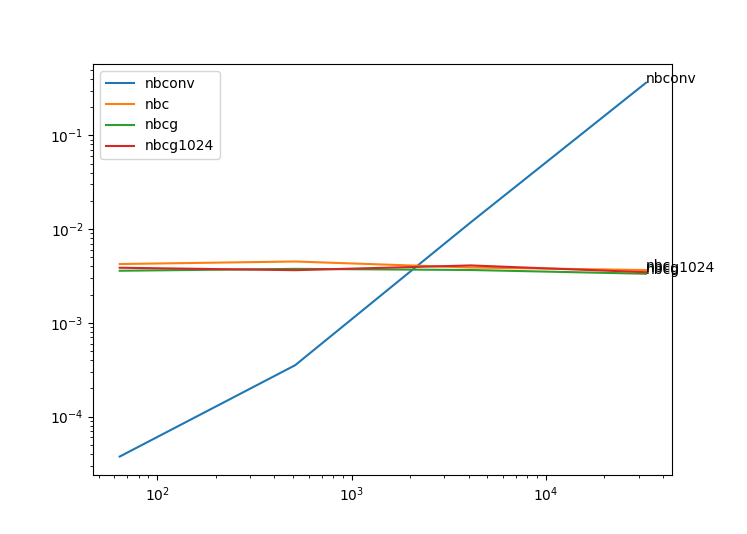
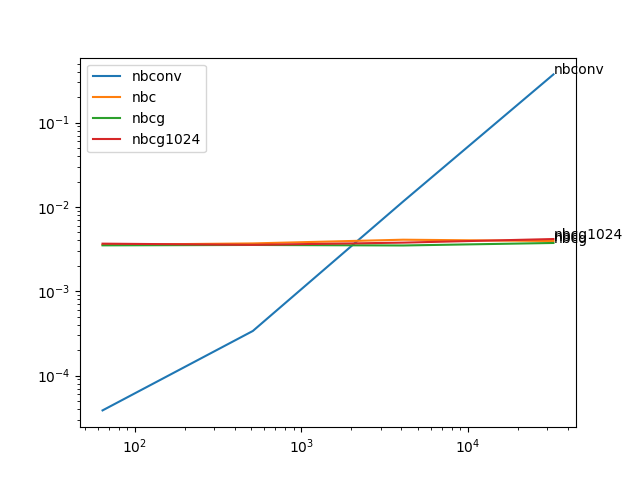
added 3d 1st order

diff --git a/test_3d_1o.py b/test_3d_1o.py
@@ -26,23 +26,14 @@ def t(f):
 @t
 @njit
 def test_3_nbconv(x,k): #numba_conv
-    l = x.size - k.shape[0] + 1
+    l = x.shape[0] - k.shape[0] + 1
     y = np.zeros(l)
     for n in range(l):
         for i in range(k.shape[0]):
             for j in range(k.shape[1]):
                 for l in range(k.shape[2]):
-                    y[n] += x[i+n] * x[j+n] * x[l+n] * k[i,j,l]
+                    y[n] += x[i+n,j,l] * k[i,j,l]
     return y
-
-
-@cuda.jit
-def test_3_nbcj(x,k,y): #numba_conv
-    for n in range(y.size):
-        for i in range(k.shape[0]):
-            for j in range(k.shape[1]):
-                for l in range(k.shape[2]):
-                    y[n] += x[i+n] * x[j+n] * x[l+n] * k[i,j,l]
 
 @cuda.jit
 def test_3_nbcj_grid(x,k,y): #numba_conv
@@ -51,18 +42,11 @@ def test_3_nbcj_grid(x,k,y): #numba_conv
         for i in range(k.shape[0]):
             for j in range(k.shape[1]):
                 for l in range(k.shape[2]):
-                    y[n] += x[i+n] * x[j+n] * x[l+n] * k[i,j,l]
-
-@t
-def test_3_nbc(x, k):
-    l = x.size - k.shape[0] + 1
-    y = cp.zeros(l)
-    test_3_nbcj[1,32](x, k, y)
-    return y
+                    y[n] += x[i+n,j,l] * k[i,j,l]
 
 @t
 def test_3_nbcg(x, k):
-    l = x.size - k.shape[0] + 1
+    l = x.shape[0] - k.shape[0] + 1
     y = cp.zeros(l)
     th = 128
     b = y.size//th+1
@@ -70,49 +54,34 @@ def test_3_nbcg(x, k):
     test_3_nbcj_grid[b,th](x, k, y)
     return y
 
-@t
-def test_3_nbcg1024(x, k):
-    l = x.size - k.shape[0] + 1
-    y = cp.zeros(l)
-    th = 1024
-    b = y.size//th+1
-    # print(b,th)
-    test_3_nbcj_grid[b,th](x, k, y)
-    return y
-
 def test_3_valid(n,m):
     np.random.seed(0)
-    x = np.random.uniform(-1,1,n)
+    x = np.random.uniform(-1,1,(n,m,m))
     k = np.random.uniform(-1,1,(m,m,m))
     xc = cuda.to_device(x)
     kc = cuda.to_device(k)
 
     if True:
-        nbconv = test_3_nbconv(x,k)
-        nbc = test_3_nbc(xc,kc)
-        nbcg = test_3_nbcg(xc,kc)
-        nbcg1024 = test_3_nbcg1024(xc,kc)
+        nbconv = test_3_nbconv(x, k)
+        nbcg = test_3_nbcg(xc, kc)
 
         # print(nbconv)
-        # print(nbc)
         # print(nbcg)
 
         print(np.all([
-                np.isclose(nbc,nbconv)
-                ,np.isclose(nbcg,nbconv)
-                ,np.isclose(nbcg1024,nbconv)
+                np.isclose(nbcg,nbconv)
                 ])
                 , n, m
             )
 
 def test_3_plot():
-    for i in range(1,6):
+    for i in range(1,7):
         test_3_valid(4**i, 2**i)
 
     print(results)
     for k in results:
         a = np.asarray(results[k])
-        x = [4**(i+1) * 2**(i+1) for i in range(a.shape[0])]
+        x = [4**(i+1) * 2**(5*(i+1)) for i in range(a.shape[0])]
         y = a[:,2]
         plt.plot(x[1:], y[1:], label=k[7:])
         plt.text(x[-1], y[-1], str(k[7:]))
@@ -124,10 +93,4 @@ def test_3_plot():
 
 if __name__ == '__main__':
     # test_3_valid(7, 2)
-    # test_3_valid(7, 3)
-    # test_3_valid(7, 4)
-    # test_3_valid(17, 12)
-    # test_3_valid(17, 13)
-    # test_3_valid(17, 14)
-    # test_3_valid(64, 8)
     test_3_plot()

diff --git a/test_1d_2o.py b/test_1d_2o.py
@@ -34,7 +34,7 @@ def test_2_nbdh(x,k,n): #numba_dot_helper
 @t
 @njit
 def test_2_nbconv_wh(x,k): #numba_conv
-    l = x.size - k.shape[0]+1
+    l = x.size - k.shape[0] + 1
     y = np.zeros(l)
     for i in range(l):
         y[i] = test_2_nbdh(x,k,i)
@@ -43,7 +43,7 @@ def test_2_nbconv_wh(x,k): #numba_conv
 @t
 @njit
 def test_2_nbconv(x,k): #numba_conv
-    l = x.size - k.shape[0]+1
+    l = x.size - k.shape[0] + 1
     y = np.zeros(l)
     for n in range(l):
         for i in range(k.shape[0]):
@@ -100,7 +100,7 @@ def test_2_valid(n,m):
         nbc = test_2_nbc(xc,kc)#.copy_to_host()
         # nbconv_wh = test_2_nbconv_wh(x,K)
         # print(npfe)
-        # print(npe)
+        print(npe)
         # print(nbconv)
         # print(nbc)
         print(np.all([
@@ -113,7 +113,7 @@ def test_2_valid(n,m):
             )
 
 def test_2_plot():
-    for i in range(1,8):
+    for i in range(1,7):
         test_2_valid(4**i, 2**i)
 
     print(results)
@@ -133,8 +133,8 @@ def test_2_plot():
 
 if __name__ == '__main__':
     # print(test_2_nbconv.__dir__())
-    # test_2_valid(8, 2)
+    test_2_valid(8, 2)
     # test_2_valid(8, 3)
     # test_2_valid(8, 4)
     # test_2_valid(1000, 100)
-    test_2_plot()
+    # test_2_plot()

diff --git a/README.md b/README.md
@@ -61,3 +61,14 @@ Best to worst for larger arrays:
   *  nbcg1024 - numba cuda (naive implementation with @cuda.njit and grid, 1024 threads/block)
   *  nbc - numba cuda (naive implementation with @cuda.njit)
 *  nbconv - numba njit (naive implementation with njit)
+
+
+# 3D First Order
+
+A video would be a good example of a 3D signal.
+
+![3D, First Order](3d1o.png)
+
+Best to worst for larger arrays:
+*  nbcg - numba cuda (naive implementation with @cuda.njit and grid)
+*  nbconv - numba njit (naive implementation with njit)
